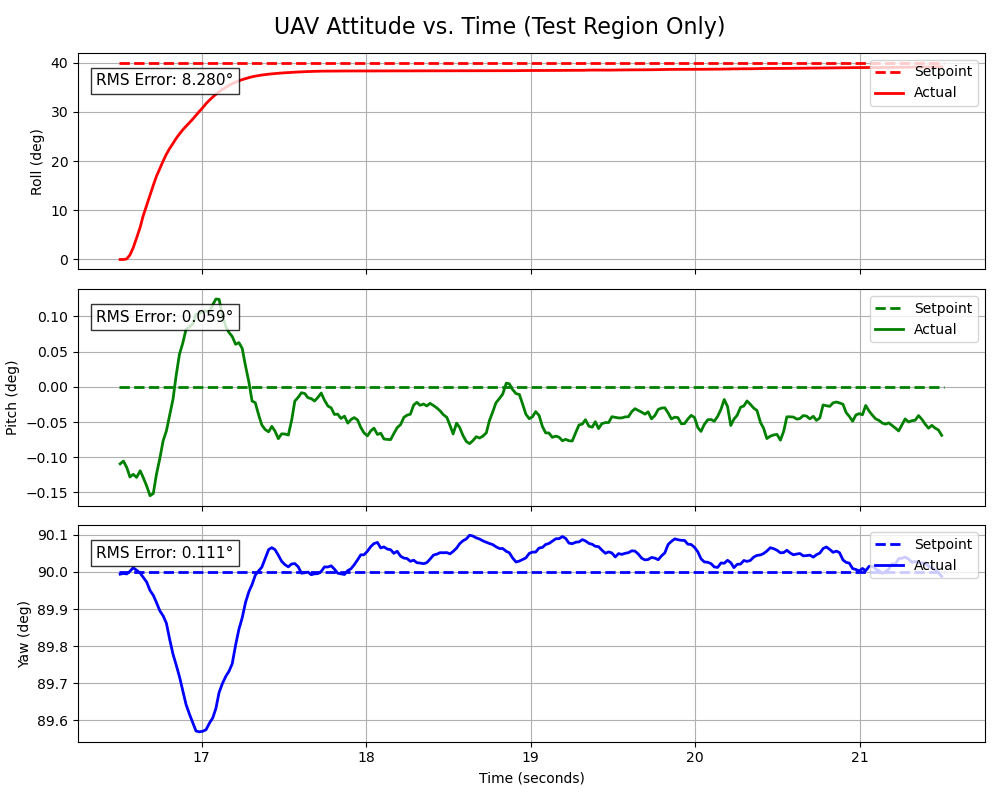
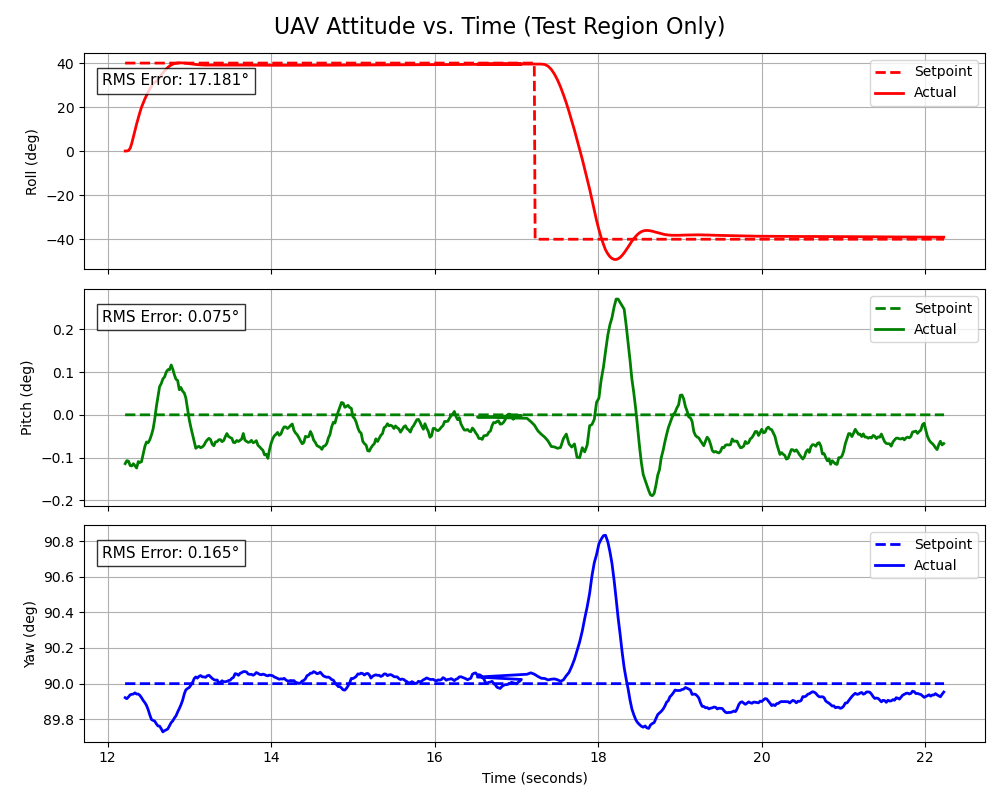
Added optional saturation in rates computation, made tests more generic and easier to use

diff --git a/bare_quad_sim/src/offboard_controller.cpp b/bare_quad_sim/src/offboard_controller.cpp
@@ -279,19 +279,29 @@ void OffboardControl::set_setpoint() {
         test_gen.step_pos_setpoint(pos_sp);
         break;
     }
-    // case 1: {
-    //     set_offboard_control_mode(BODY_RATE);
-    //     this->sinusoid_rpy_test();
-    //     break;
-    // }
     case 1: {
-        set_offboard_control_mode(ATTITUDE);
-        this->step_rpy_test();
+        // Setup timed finish
+        static auto roll_step_start_time = std::chrono::high_resolution_clock::now();
+
+        set_offboard_control_mode(BODY_RATE);
+        Eigen::Vector3d rpy_sp(40.f, 0.f, pos_vel_acc_ctrl._yawd * 180 / M_PI);
+        this->step_rpy_test(rpy_sp, roll_step_start_time);
+        break;
+    }
+    case 2: {
+        // Setup timed finish
+        static auto roll_step_start_time = std::chrono::high_resolution_clock::now();
+
+        Eigen::Vector3d rpy_sp(-40.f, 0.f, pos_vel_acc_ctrl._yawd * 180 / M_PI);
+        this->step_rpy_test(rpy_sp, roll_step_start_time);
         break;
     }
     default: {
         // Change modes for landing (smoother for exiting test cases)
         set_offboard_control_mode(POSITION);
+
+        // Allow updates again, in case they were disabled for testing
+        bypass_update_control = false;
 
         // Land vehicle
         Eigen::Vector3d pos_sp(0.f, 0.f, -1.f);
@@ -314,20 +324,18 @@ void OffboardControl::set_setpoint() {
     }
 }
 
-void OffboardControl::step_rpy_test() {
-    // Setup timed finish
-    static auto roll_step_start_time = std::chrono::high_resolution_clock::now();
+void OffboardControl::step_rpy_test(const Eigen::Vector3d &euler_deg_sp, const std::chrono::high_resolution_clock::time_point &step_start_time) {
+    const auto radians_sp = euler_deg_sp * M_PI / 180.0;
 
     static bool compensation_set = false;
     if (!compensation_set) {
-        const double cos_tilt = std::cos(radians_sp);
+        const double cos_tilt = std::cos(radians_sp(0));                    // Roll should match pitch angle for compensation
         const auto locked_test_thrust = att_rate_ctrl._thrustdn / cos_tilt; // Compensate for loss of vertical thrust due to tilt, leave constant
         att_rate_ctrl._thrustdn = std::max(locked_test_thrust, -1.0);
         compensation_set = true;
     }
 
-    Eigen::Vector3d euler_sp(radians_sp, 0.f, M_PI_2);
-    test_gen.step_rpy_setpoint(euler_sp);
+    test_gen.step_rpy_setpoint(radians_sp);
 
     // Calculate required body rates from the attitude error, only affects body_rate control mode
     att_rate_ctrl._omegad = att_rate_ctrl.compute_rates_setpoint(att_rate_ctrl._q, att_rate_ctrl._qd, att_rate_ctrl._Katt);
@@ -336,22 +344,18 @@ void OffboardControl::step_rpy_test() {
     Eigen::Vector3d pos_sp(0.f, 0.f, 0.f);
     test_gen.step_pos_setpoint(pos_sp);
 
-    if (std::chrono::duration_cast<std::chrono::seconds>(std::chrono::high_resolution_clock::now() - roll_step_start_time).count() >= 5) {
+    if (std::chrono::duration_cast<std::chrono::seconds>(std::chrono::high_resolution_clock::now() - step_start_time).count() >= 5) {
         current_setpoint_step++;
-
-        // Allow updates again
-        bypass_update_control = false;
     }
 
     bypass_update_control = true; // Disable control updates to hold attitude setpoint
 }
 
-void OffboardControl::sinusoid_rpy_test() {
-    // Setup timed finish
-    static auto sin_step_start_time = std::chrono::high_resolution_clock::now();
+void OffboardControl::sinusoid_rpy_test(const Eigen::Vector3d &euler_deg_amplitude_sp, double frequency,
+                                        const std::chrono::high_resolution_clock::time_point &step_start_time) {
+    const auto radians_sp_amplitude = euler_deg_amplitude_sp * M_PI / 180.0;
 
-    Eigen::Vector3d euler_sp_amplitude(radians_sp, 0.f, 0.f);
-    test_gen.sinusoid_rpy_setpoint(euler_sp_amplitude, 0.25);
+    test_gen.sinusoid_rpy_setpoint(radians_sp_amplitude, frequency);
 
     double qx = att_rate_ctrl._q.x();
     double qy = att_rate_ctrl._q.y();
@@ -368,11 +372,8 @@ void OffboardControl::sinusoid_rpy_test() {
     Eigen::Vector3d pos_sp(0.f, 0.f, 0.f);
     test_gen.step_pos_setpoint(pos_sp);
 
-    if (std::chrono::duration_cast<std::chrono::seconds>(std::chrono::high_resolution_clock::now() - sin_step_start_time).count() >= 10) {
+    if (std::chrono::duration_cast<std::chrono::seconds>(std::chrono::high_resolution_clock::now() - step_start_time).count() >= 10) {
         current_setpoint_step++;
-
-        // Allow updates again
-        bypass_update_control = false;
     }
 
     bypass_update_control = true; // Disable control updates to hold attitude setpoint

diff --git a/bare_quad_sim/src/attitude_rate_control.cpp b/bare_quad_sim/src/attitude_rate_control.cpp
@@ -71,6 +71,17 @@ Eigen::Vector3d attitude_rates::compute_rates_setpoint(Eigen::Vector4d &curr_att
     des_rate(0) = 2 * K_att(0) * std::copysign(1.0, qe(0)) * qe(1);
     des_rate(1) = 2 * K_att(1) * std::copysign(1.0, qe(0)) * qe(2);
     des_rate(2) = 2 * K_att(2) * std::copysign(1.0, qe(0)) * qe(3);
+
+    // Standard PX4 default limits: 220 deg/s for Roll/Pitch, 200 deg/s for Yaw
+    // Can be found inside QGroundControl as well
+    // Eigen::Vector3d max_rates(220, 220, 200);
+    // max_rates *= M_PI / 180.0; // Convert to rad/s
+
+    // // Saturate rates
+    // des_rate(0) = std::max(std::min(des_rate(0), max_rates(0)), -max_rates(0));
+    // des_rate(1) = std::max(std::min(des_rate(1), max_rates(1)), -max_rates(1));
+    // des_rate(2) = std::max(std::min(des_rate(2), max_rates(2)), -max_rates(2));
+
     return des_rate;
 }
 

diff --git a/bare_quad_sim/include/offboard_controller.h b/bare_quad_sim/include/offboard_controller.h
@@ -65,14 +65,10 @@ class OffboardControl : public rclcpp::Node {
     test_generation test_gen{pos_vel_acc_ctrl, att_rate_ctrl};
     uint64_t current_setpoint_step = 0;
 
-    // Test Member Helpers
-    // For Constant roll
-    const double degrees_sp = 40.0;
-    const float radians_sp = static_cast<float>(degrees_sp * M_PI / 180.0);
-
     // Test Helpers
-    void step_rpy_test();
-    void sinusoid_rpy_test();
+    void step_rpy_test(const Eigen::Vector3d &euler_deg_sp, const std::chrono::high_resolution_clock::time_point &step_start_time);
+    void sinusoid_rpy_test(const Eigen::Vector3d &euler_deg_amplitude_sp, double frequency,
+                           const std::chrono::high_resolution_clock::time_point &step_start_time);
 
     // Physical Parameters
     Eigen::Vector3d _g;
